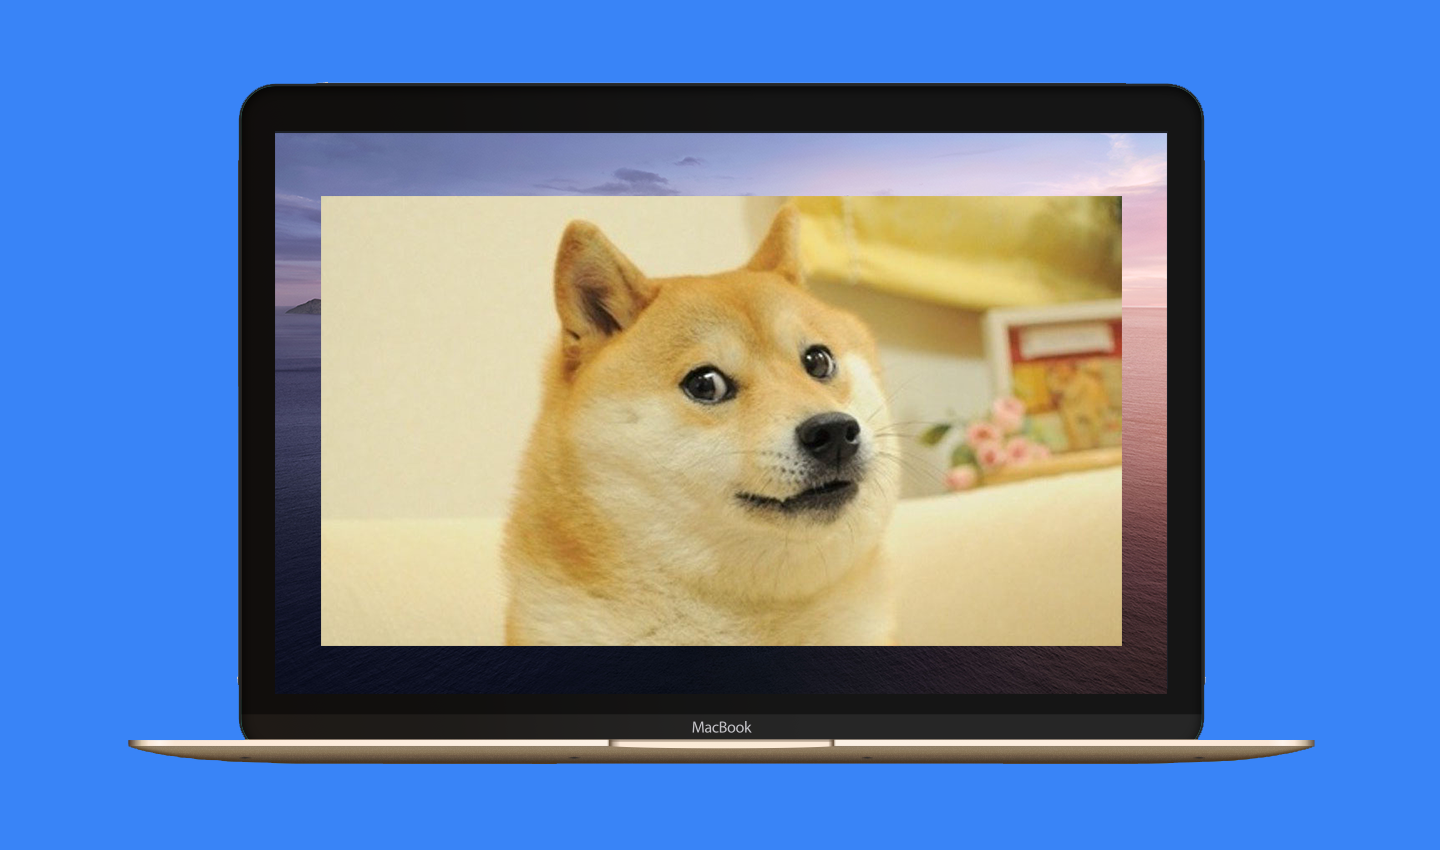
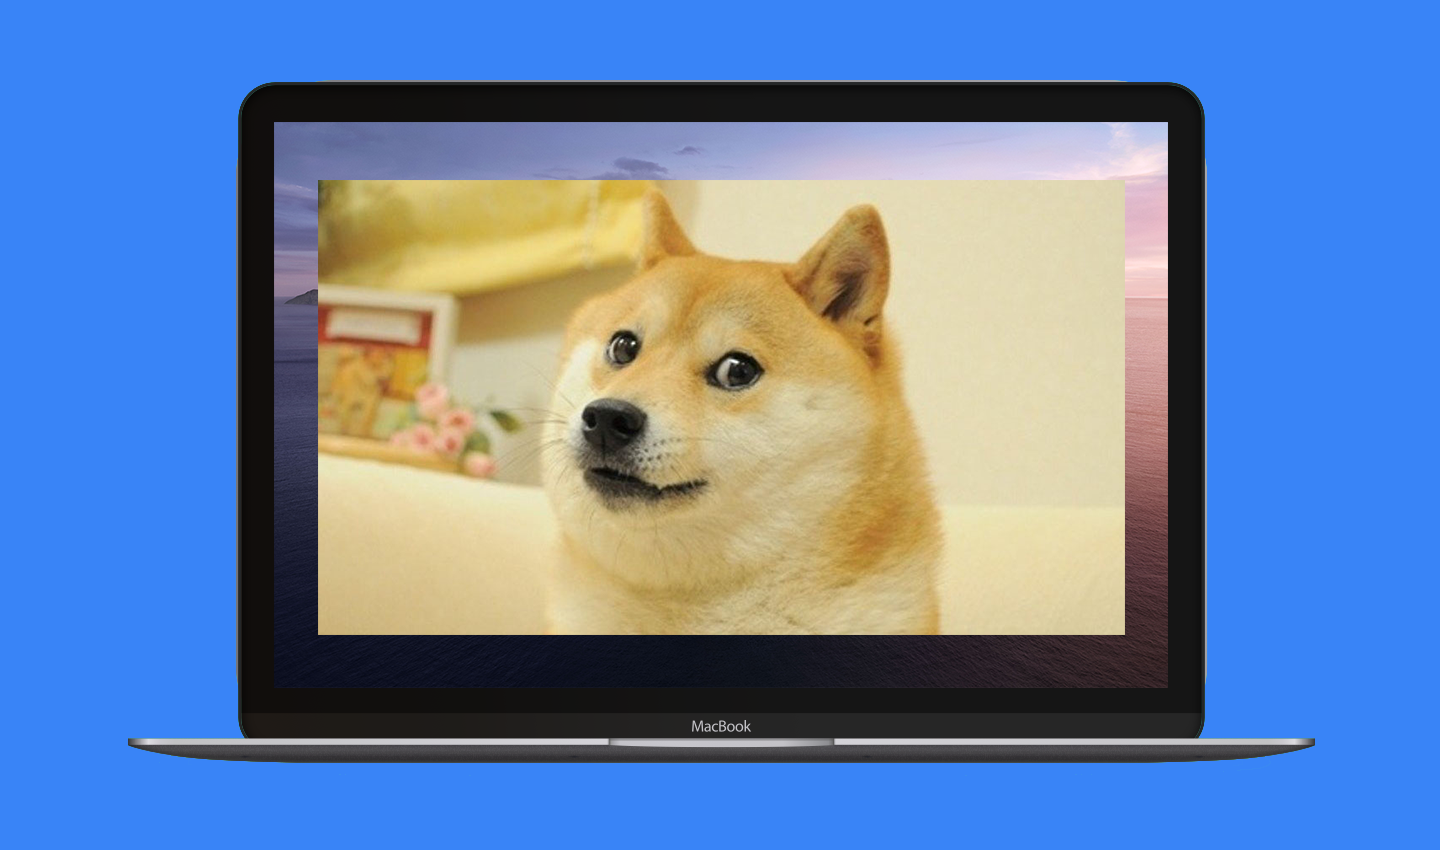
added new project link

diff --git a/index.html b/index.html
@@ -88,6 +88,32 @@ height="0" width="0" style="display:none;visibility:hidden"></iframe></noscript>
         <!--Project Start-->
         <a
         class="projects-tile"
+        href="https://johnnyfung.ca/toronto-housing-market/"
+        target = "_blank"
+        data-aos="fade-up" data-aos-duration="1200" data-aos-easing="ease-out"
+        >
+        <div class="preview-crossfade">
+            <img 
+            class="projects-tile-picture top fade"
+            src="media/project-previews/toronto-housing-market/toronto-housing-market1.png"
+            alt="Toronto Housing Market Preview"
+            />
+            <img 
+            class="projects-tile-picture"
+            src="media/project-previews/toronto-housing-market/toronto-housing-market2.png"
+            alt="Toronto Housing Market Preview"
+            />
+        </div>
+        <p class="projects-tile-title">
+        <span class="projects-title-hidden-code">&lt;</span>
+        Toronto Housing Market Visualization
+        <span class="projects-title-hidden-code">&#47;&gt;</span>
+        </p>
+        </a>
+        <!--Project End-->
+        <!--Project Start-->
+        <a
+        class="projects-tile"
         href="https://github.com/Johnny-Fung/Python-Paint-Program"
         target = "_blank"
         data-aos="fade-up" data-aos-duration="1200" data-aos-easing="ease-out"
@@ -158,33 +184,7 @@ height="0" width="0" style="display:none;visibility:hidden"></iframe></noscript>
         </div>
         <p class="projects-tile-title">
         <span class="projects-title-hidden-code">&lt;</span>
-        Clipboard Manager: Touch Bar App
-        <span class="projects-title-hidden-code">&#47;&gt;</span>
-        </p>
-        </a>
-        <!--Project End-->
-        <!--Project Start-->
-        <a
-        class="projects-tile"
-        href="https://github.com/Johnny-Fung/toronto-housing-market-map-visualization"
-        target = "_blank"
-        data-aos="fade-up" data-aos-duration="1200" data-aos-easing="ease-out" data-aos-delay="200"
-        >
-        <div class="preview-crossfade">
-                <img 
-                class="projects-tile-picture top fade"
-                src="media/project-previews/coming-soon/preview-doge2.png"
-                alt="Toronto Housing Market Map Visualization"
-                />
-                <img 
-                class="projects-tile-picture"
-                src="media/project-previews/coming-soon/preview-coming-soon.png"
-                alt="Toronto Housing Market Map Visualization"
-                />
-            </div>
-        <p class="projects-tile-title">
-        <span class="projects-title-hidden-code">&lt;</span>
-        Toronto Housing Market Map Visualization
+        Clipboard Manager: Macbook Touch Bar App
         <span class="projects-title-hidden-code">&#47;&gt;</span>
         </p>
         </a>
